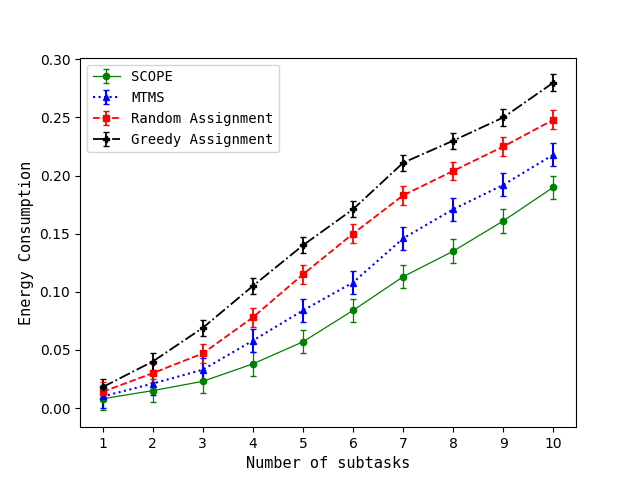
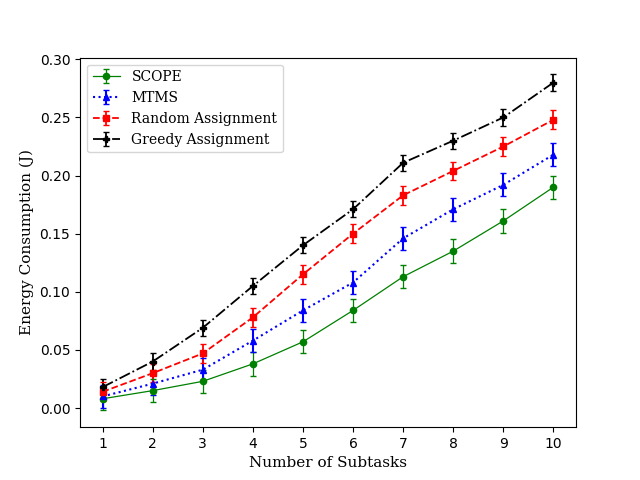
refactor: Update graph label

Changed region(s): [[0.1875, 0.125, 0.4375, 0.3125], [0.375, 0.9375, 0.6562, 1.0], [0.0312, 0.3125, 0.0625, 0.6875]]

diff --git a/dummygraph.py b/dummygraph.py
@@ -30,8 +30,8 @@ def clearDataSet():
 def subtaskVsLatency():
     prepareDataSet('Data/subtasklatency.txt')
 
-    plt.xlabel('Number of subtasks', fontsize=11, fontname='monospace')
-    plt.ylabel('Service Latency', fontsize=11, fontname='monospace')
+    plt.xlabel('Number of Subtasks', fontsize=11, fontname='serif')
+    plt.ylabel('Service Latency (Sec)', fontsize=11, fontname='serif')
 
     plt.errorbar(x1, y4, color='g', label='SCOPE', yerr=0.08, marker='o', capsize=2, linestyle='solid', linewidth=0.9,
                  markersize=4.5, fillstyle='full')
@@ -42,7 +42,7 @@ def subtaskVsLatency():
     plt.errorbar(x1, y3, color='k', label='Greedy Assignment', yerr=0.07, marker='P', capsize=2, linestyle='dashdot',
                  linewidth=1.3, markersize=4.7, fillstyle='full')
 
-    font = font_manager.FontProperties(family='monospace', weight='regular', style='normal', size=10)
+    font = font_manager.FontProperties(family='serif', weight='regular', style='normal', size=10)
     plt.legend(prop=font)
 
     plt.savefig("Images/subtaskvslatency.png")
@@ -53,8 +53,8 @@ def subtaskVsLatency():
 def subtaskVsEnergy():
     prepareDataSet('Data/subtaskenergy.txt')
 
-    plt.xlabel('Number of subtasks', fontsize=11, fontname='monospace')
-    plt.ylabel('Energy Consumption', fontsize=11, fontname='monospace')
+    plt.xlabel('Number of Subtasks', fontsize=11, fontname='serif')
+    plt.ylabel('Energy Consumption (J)', fontsize=11, fontname='serif')
 
     plt.errorbar(x1, y4, color='g', label='SCOPE', yerr=0.010, marker='o', capsize=2, linestyle='solid', linewidth=0.9,
                  markersize=4.5, fillstyle='full')
@@ -65,7 +65,7 @@ def subtaskVsEnergy():
     plt.errorbar(x1, y3, color='k', label='Greedy Assignment', yerr=0.007, marker='P', capsize=2, linestyle='dashdot',
                  linewidth=1.3, markersize=4.7, fillstyle='full')
 
-    font = font_manager.FontProperties(family='monospace', weight='regular', style='normal', size=10)
+    font = font_manager.FontProperties(family='serif', weight='regular', style='normal', size=10)
     plt.legend(prop=font)
 
     plt.savefig("Images/subtaskvsenergy.png")
@@ -76,8 +76,8 @@ def subtaskVsEnergy():
 def subtaskVsTaskDrop():
     prepareDataSet('Data/subtaskvstaskdrop.txt')
 
-    plt.xlabel('Number of subtasks', fontsize=11, fontname='monospace')
-    plt.ylabel('Task Drop Rate', fontsize=11, fontname='monospace')
+    plt.xlabel('Number of Subtasks', fontsize=11, fontname='serif')
+    plt.ylabel('Task Drop Rate', fontsize=11, fontname='serif')
 
     plt.errorbar(x1, y4, color='g', label='SCOPE', yerr=0.22, marker='o', capsize=2, linestyle='solid', linewidth=0.9,
                  markersize=4.5, fillstyle='full')
@@ -88,7 +88,7 @@ def subtaskVsTaskDrop():
     plt.errorbar(x1, y3, color='k', label='Greedy Assignment', yerr=0.15, marker='P', capsize=2, linestyle='dashdot',
                  linewidth=1.3, markersize=4.8, fillstyle='full')
 
-    font = font_manager.FontProperties(family='monospace', weight='regular', style='normal', size=10)
+    font = font_manager.FontProperties(family='serif', weight='regular', style='normal', size=10)
     plt.legend(prop=font)
 
     plt.savefig("Images/subtaskvstaskdrop.png")
@@ -100,8 +100,8 @@ def subtaskVsUtilCost():
     prepareDataSet('Data/subtaskutilitypercost.txt')
 
     # plt.title("Number of subtasks vs Utility per Unit Cost")
-    plt.xlabel('Number of subtasks', fontsize=11, fontname='monospace')
-    plt.ylabel('Utility per Unit Cost', fontsize=11, fontname='monospace')
+    plt.xlabel('Number of Subtasks', fontsize=11, fontname='serif')
+    plt.ylabel('Utility Per Unit Cost', fontsize=11, fontname='serif')
 
     plt.errorbar(x1, y4, color='g', label='SCOPE', yerr=0.010, marker='o', capsize=2, linestyle='solid', linewidth=0.9,
                  markersize=4.5, fillstyle='full')
@@ -112,7 +112,7 @@ def subtaskVsUtilCost():
     plt.errorbar(x1, y3, color='k', label='Greedy Assignment', yerr=0.008, marker='P', capsize=2, linestyle='dashdot',
                  linewidth=1.3, markersize=4.7, fillstyle='full')
 
-    font = font_manager.FontProperties(family='monospace', weight='regular', style='normal', size=10)
+    font = font_manager.FontProperties(family='serif', weight='regular', style='normal', size=10)
     plt.legend(prop=font)
 
     plt.savefig("Images/subtaskvsutilitypercost.png")
@@ -123,8 +123,8 @@ def subtaskVsUtilCost():
 def serverVsLatency():
     prepareDataSet('Data/serverlatency.txt')
 
-    plt.xlabel('Number of Servers', fontsize=11, fontname='monospace')
-    plt.ylabel('Service Latency', fontsize=11, fontname='monospace')
+    plt.xlabel('Number of Servers', fontsize=11, fontname='serif')
+    plt.ylabel('Service Latency (Sec)', fontsize=11, fontname='serif')
 
     plt.errorbar(x1, y4, color='g', label='SCOPE', yerr=0.026, marker='o', capsize=2, linestyle='solid', linewidth=0.9,
                  markersize=4.5, fillstyle='full')
@@ -135,7 +135,7 @@ def serverVsLatency():
     plt.errorbar(x1, y3, color='k', label='Greedy Assignment', yerr=0.021, marker='P', capsize=2, linestyle='dashdot',
                  linewidth=1.3, markersize=4.7, fillstyle='full')
 
-    font = font_manager.FontProperties(family='monospace', weight='regular', style='normal', size=10)
+    font = font_manager.FontProperties(family='serif', weight='regular', style='normal', size=10)
     plt.legend(prop=font)
 
     plt.savefig("Images/servervslatency.png")
@@ -146,8 +146,8 @@ def serverVsLatency():
 def serverVsEnergy():
     prepareDataSet('Data/servervsenergy.txt')
 
-    plt.xlabel('Number of Servers', fontsize=11, fontname='monospace')
-    plt.ylabel('Energy Consumption', fontsize=11, fontname='monospace')
+    plt.xlabel('Number of Servers', fontsize=11, fontname='serif')
+    plt.ylabel('Energy Consumption (J)', fontsize=11, fontname='serif')
 
     plt.errorbar(x1, y4, color='g', label='SCOPE', yerr=0.0032, marker='o', capsize=2, linestyle='solid', linewidth=0.9,
                  markersize=4.5, fillstyle='full')
@@ -158,7 +158,7 @@ def serverVsEnergy():
     plt.errorbar(x1, y3, color='k', label='Greedy Assignment', yerr=0.0026, marker='P', capsize=2, linestyle='dashdot',
                  linewidth=1.3, markersize=4.5, fillstyle='full')
 
-    font = font_manager.FontProperties(family='monospace', weight='regular', style='normal', size=10)
+    font = font_manager.FontProperties(family='serif', weight='regular', style='normal', size=10)
     plt.legend(prop=font)
 
     plt.savefig("Images/servervsenergy.png")
@@ -169,8 +169,8 @@ def serverVsEnergy():
 def serverVsUtilityPerUnitCost():
     prepareDataSet('Data/serverutilitypercost.txt')
 
-    plt.xlabel('Number of Servers', fontsize=11, fontname='monospace')
-    plt.ylabel('Utility per Unit Cost', fontsize=11, fontname='monospace')
+    plt.xlabel('Number of Servers', fontsize=11, fontname='serif')
+    plt.ylabel('Utility Per Unit Cost', fontsize=11, fontname='serif')
 
     plt.errorbar(x1, y4, color='g', label='SCOPE', yerr=0.0022, marker='o', capsize=2, linestyle='solid', linewidth=0.9,
                  markersize=4.5, fillstyle='full')
@@ -181,7 +181,7 @@ def serverVsUtilityPerUnitCost():
     plt.errorbar(x1, y3, color='k', label='Greedy Assignment', yerr=0.0017, marker='P', capsize=2, linestyle='dashdot',
                  linewidth=1.3, markersize=4.5, fillstyle='full')
 
-    font = font_manager.FontProperties(family='monospace', weight='regular', style='normal', size=10)
+    font = font_manager.FontProperties(family='serif', weight='regular', style='normal', size=10)
     plt.legend(prop=font)
 
     plt.savefig("Images/servervsutilcost")
@@ -192,8 +192,8 @@ def serverVsUtilityPerUnitCost():
 def serverVsTaskDrop():
     prepareDataSet('Data/servervstaskdrop.txt')
 
-    plt.xlabel('Number of Servers', fontsize=11, fontname='monospace')
-    plt.ylabel('Task Drop Rate', fontsize=11, fontname='monospace')
+    plt.xlabel('Number of Servers', fontsize=11, fontname='serif')
+    plt.ylabel('Task Drop Rate', fontsize=11, fontname='serif')
 
     plt.errorbar(x1, y4, color='g', label='SCOPE', yerr=0.25, marker='o', capsize=2, linestyle='solid', linewidth=0.9,
                  markersize=4.5, fillstyle='full')
@@ -204,7 +204,7 @@ def serverVsTaskDrop():
     plt.errorbar(x1, y3, color='k', label='Greedy Assignment', yerr=0.17, marker='P', capsize=2, linestyle='dashdot',
                  linewidth=1.3, markersize=4.8, fillstyle='full')
 
-    font = font_manager.FontProperties(family='monospace', weight='regular', style='normal', size=10)
+    font = font_manager.FontProperties(family='serif', weight='regular', style='normal', size=10)
     plt.legend(prop=font)
 
     plt.savefig("Images/servervstaskdrop.png")
@@ -243,8 +243,8 @@ def serverVsTaskDropBar():
 def taskSizeVsLatency():
     prepareDataSet('Data/tasksizevslatency.txt')
 
-    plt.xlabel('Task Size', fontsize=11, fontname='monospace')
-    plt.ylabel('Service Latency', fontsize=11, fontname='monospace')
+    plt.xlabel('Task Size (Kb)', fontsize=11, fontname='serif')
+    plt.ylabel('Service Latency (Sec)', fontsize=11, fontname='serif')
 
     plt.errorbar(x1, y4, color='g', label='SCOPE', yerr=0.18, marker='o', capsize=2, linestyle='solid', linewidth=0.9,
                  markersize=4.5, fillstyle='full')
@@ -255,7 +255,7 @@ def taskSizeVsLatency():
     plt.errorbar(x1, y3, color='k', label='Greedy Assignment', yerr=0.16, marker='P', capsize=2, linestyle='dashdot',
                  linewidth=1.3, markersize=4.7, fillstyle='full')
 
-    font = font_manager.FontProperties(family='monospace', weight='regular', style='normal', size=10)
+    font = font_manager.FontProperties(family='serif', weight='regular', style='normal', size=10)
     plt.legend(prop=font)
 
     plt.savefig("Images/tasksizevslatency.png")
@@ -266,8 +266,8 @@ def taskSizeVsLatency():
 def taskSizeVsEnergy():
     prepareDataSet('Data/tasksizevsenergy.txt')
 
-    plt.xlabel('Task size', fontsize=11, fontname='monospace')
-    plt.ylabel('Energy Consumption', fontsize=11, fontname='monospace')
+    plt.xlabel('Task Size (Kb)', fontsize=11, fontname='serif')
+    plt.ylabel('Energy Consumption (J)', fontsize=11, fontname='serif')
 
     plt.errorbar(x1, y4, color='g', label='SCOPE', yerr=0.026, marker='o', capsize=2, linestyle='solid', linewidth=0.9,
                  markersize=4.5, fillstyle='full')
@@ -278,7 +278,7 @@ def taskSizeVsEnergy():
     plt.errorbar(x1, y3, color='k', label='Greedy Assignment', yerr=0.021, marker='P', capsize=2, linestyle='dashdot',
                  linewidth=1.3, markersize=4.7, fillstyle='full')
 
-    font = font_manager.FontProperties(family='monospace', weight='regular', style='normal', size=10)
+    font = font_manager.FontProperties(family='serif', weight='regular', style='normal', size=10)
     plt.legend(prop=font)
 
     plt.savefig("Images/tasksizevsenergy.png")
@@ -289,8 +289,8 @@ def taskSizeVsEnergy():
 def taskSizeVsUtilityPerUnitCost():
     prepareDataSet('Data/tasksizevsutilitypercost.txt')
 
-    plt.xlabel('Task size', fontsize=11, fontname='monospace')
-    plt.ylabel('Utility per unit Cost', fontsize=11, fontname='monospace')
+    plt.xlabel('Task Size (Kb)', fontsize=11, fontname='serif')
+    plt.ylabel('Utility Per Unit Cost', fontsize=11, fontname='serif')
 
     plt.errorbar(x1, y4, color='g', label='SCOPE', yerr=0.0026, marker='o', capsize=2, linestyle='solid', linewidth=0.9,
                  markersize=4.5, fillstyle='full')
@@ -301,7 +301,7 @@ def taskSizeVsUtilityPerUnitCost():
     plt.errorbar(x1, y3, color='k', label='Greedy Assignment', yerr=0.0021, marker='P', capsize=2, linestyle='dashdot',
                  linewidth=1.3, markersize=4.7, fillstyle='full')
 
-    font = font_manager.FontProperties(family='monospace', weight='regular', style='normal', size=10)
+    font = font_manager.FontProperties(family='serif', weight='regular', style='normal', size=10)
     plt.legend(prop=font)
 
     plt.savefig("Images/tasksizevsutilitypercost.png")
@@ -312,8 +312,8 @@ def taskSizeVsUtilityPerUnitCost():
 def taskSizeVsTaskDrop():
     prepareDataSet('Data/tasksizevstaskdrop.txt')
 
-    plt.xlabel('Task size', fontsize=11, fontname='monospace')
-    plt.ylabel('Task Drop Rate', fontsize=11, fontname='monospace')
+    plt.xlabel('Task Size (Kb)', fontsize=11, fontname='serif')
+    plt.ylabel('Task Drop Rate', fontsize=11, fontname='serif')
 
     plt.errorbar(x1, y4, color='g', label='SCOPE', yerr=0.25, marker='o', capsize=2, linestyle='solid', linewidth=0.9,
                  markersize=4.5, fillstyle='full')
@@ -324,7 +324,7 @@ def taskSizeVsTaskDrop():
     plt.errorbar(x1, y3, color='k', label='Greedy Assignment', yerr=0.17, marker='P', capsize=2, linestyle='dashdot',
                  linewidth=1.3, markersize=4.8, fillstyle='full')
 
-    font = font_manager.FontProperties(family='monospace', weight='regular', style='normal', size=10)
+    font = font_manager.FontProperties(family='serif', weight='regular', style='normal', size=10)
     plt.legend(prop=font)
 
     plt.savefig("Images/tasksizevstaskdrop.png")
@@ -360,19 +360,19 @@ def taskSizeVsTaskDropBar():
     clearDataSet()
 
 
-# subtaskVsLatency()
-# subtaskVsEnergy()
+subtaskVsLatency()
+subtaskVsEnergy()
 subtaskVsUtilCost()
-# subtaskVsTaskDrop()
+subtaskVsTaskDrop()
 
-# serverVsLatency()
-# serverVsEnergy()
-# serverVsUtilityPerUnitCost()
-# serverVsTaskDrop()
+serverVsLatency()
+serverVsEnergy()
+serverVsUtilityPerUnitCost()
+serverVsTaskDrop()
 # serverVsTaskDropBar()
 
-# taskSizeVsLatency()
-# taskSizeVsEnergy()
-# taskSizeVsUtilityPerUnitCost()
-# taskSizeVsTaskDrop()
+taskSizeVsLatency()
+taskSizeVsEnergy()
+taskSizeVsUtilityPerUnitCost()
+taskSizeVsTaskDrop()
 # taskSizeVsTaskDropBar()
